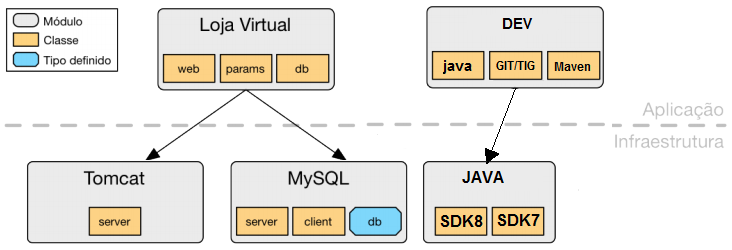
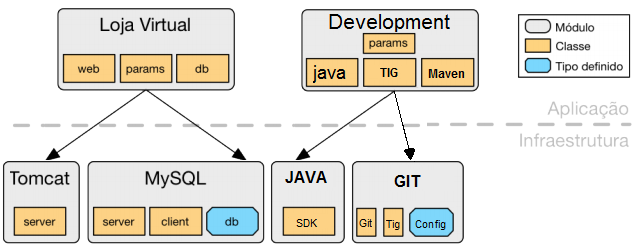
atualizacao do diagrama com novos modulos

diff --git a/README.md b/README.md
@@ -1,3 +1,3 @@
-# My automated environment with vagrant and puppet
+# My automated environments with vagrant and puppet
 
 ![Image of my puppet modules classes and type-defined](https://github.com/fernandoluizjr/environment/blob/master/images/puppet_module_class_typedef.png)
